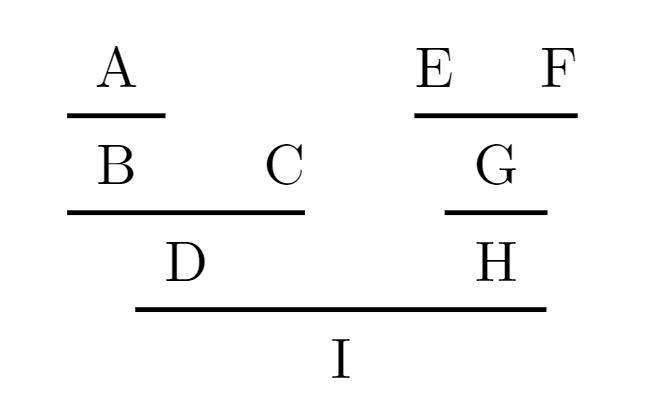
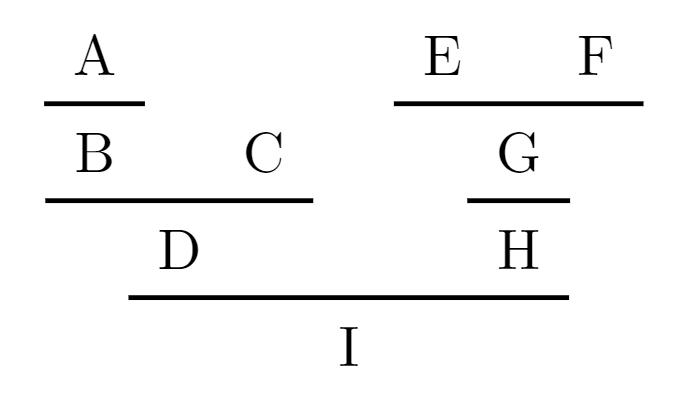
Fix lateral spacing and update default horizontal spacing

diff --git a/README.md b/README.md
@@ -43,7 +43,7 @@ You can generate the image above with the following code:
 ```js
 let prooftree(
   spacing: (
-    horizontal: 1.5em,
+    horizontal: 1em,
     vertical: 0.5em,
     lateral: 0.5em,
   ),
@@ -59,7 +59,7 @@ The main function exported by this library is `prooftree`. If you're familiar wi
 Moreover this functions takes the following named arguments:
 
 - `spacing`: a dictionary of spacing related arguments, in particular:
-  - `horizontal` or `h`: `length`s that regulate the horizontal spacing between sibling rules (default: `1.5em`).
+  - `horizontal` or `h`: `length`s that regulate the horizontal spacing between sibling rules (default: `1em`).
   - `vertical` or `v`: `length`s that regulate the vertical spacing between the rules and the horizontal lines (default: `0.5em`);
   - `lateral` or `l`: `length`s that regulate the horizontal spacing on the sides of each rules (default: `0.5em`); the difference between this and `horizontal` is that this spacing enlarges the horizontal lines.
 - `label`: a dictionary of label related arguments, in particular:
